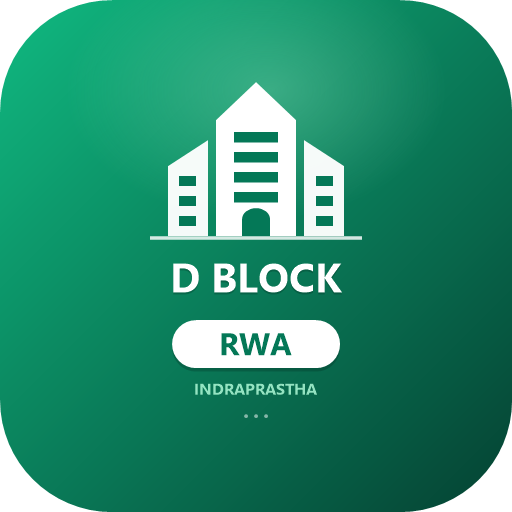
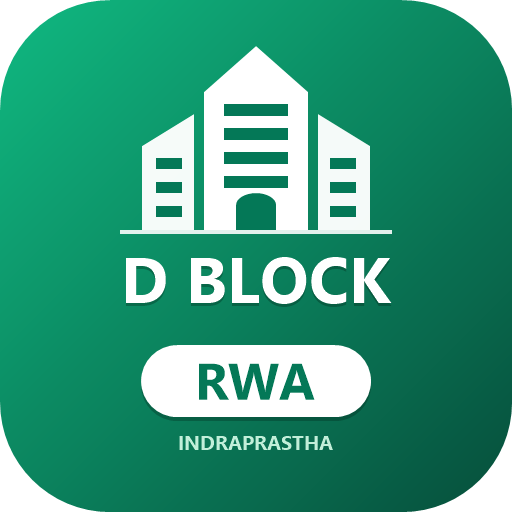
feat(branding): make emblem, D BLOCK, and RWA much larger and bolder for mobile splash screen

diff --git a/index.html b/index.html
@@ -2,17 +2,17 @@
 <html lang="en">
   <head>
     <meta charset="UTF-8" />
-    <link rel="icon" type="image/png" sizes="192x192" href="/icon-192.png?v=4" />
-    <link rel="apple-touch-icon" href="/apple-touch-icon.png?v=4" />
+    <link rel="icon" type="image/png" sizes="192x192" href="/icon-192.png?v=5" />
+    <link rel="apple-touch-icon" href="/apple-touch-icon.png?v=5" />
     <link rel="icon" type="image/svg+xml" href="/favicon.svg" />
-    <link rel="manifest" href="/manifest.json?v=4" />
+    <link rel="manifest" href="/manifest.json?v=5" />
     <meta name="viewport" content="width=device-width, initial-scale=1.0" />
     <meta name="description" content="D Block RWA Indraprastha — Society Management System. Manage residents, billing, garbage collection, complaints, events, and more." />
     <meta name="theme-color" content="#059669" />
     <title>D Block RWA Indraprastha</title>
     <link rel="preconnect" href="https://fonts.googleapis.com" />
     <link rel="preconnect" href="https://fonts.gstatic.com" crossorigin />
-    <link href="https://fonts.googleapis.com/css2?family=Inter:wght@300;400;500;600;700;800&display=swap" rel="stylesheet" />
+    <link href="https://fonts.googleapis.com/css2?family=Inter:wght@300;400;500;600;700;800;900&display=swap" rel="stylesheet" />
     <script>
       (function () {
         var h = window.location.hostname;
@@ -30,13 +30,13 @@
   <body>
     <div id="root">
       <div id="app-splash" style="position:fixed;inset:0;background:linear-gradient(145deg, #059669 0%, #047857 60%, #064e3b 100%);display:flex;flex-direction:column;align-items:center;justify-content:center;color:#fff;font-family:-apple-system,BlinkMacSystemFont,'Segoe UI',Roboto,sans-serif;z-index:99999;">
-        <img src="/icon-192.png?v=4" alt="D Block RWA" style="width:96px;height:96px;border-radius:24px;box-shadow:0 12px 28px rgba(0,0,0,0.25);margin-bottom:16px;animation:splashPulse 1.8s infinite ease-in-out;" />
-        <div style="font-size:20px;font-weight:800;letter-spacing:1.5px;text-transform:uppercase;">D Block RWA</div>
-        <div style="font-size:11px;font-weight:600;letter-spacing:2.5px;color:#a7f3d0;text-transform:uppercase;margin-top:5px;">Indraprastha</div>
+        <img src="/icon-192.png?v=5" alt="D Block RWA" style="width:144px;height:144px;border-radius:32px;box-shadow:0 16px 40px rgba(0,0,0,0.32);margin-bottom:20px;animation:splashPulse 1.8s infinite ease-in-out;" />
+        <div style="font-size:26px;font-weight:900;letter-spacing:2px;text-transform:uppercase;text-shadow:0 2px 10px rgba(0,0,0,0.25);">D BLOCK RWA</div>
+        <div style="font-size:13px;font-weight:700;letter-spacing:3.5px;color:#a7f3d0;text-transform:uppercase;margin-top:6px;">Indraprastha</div>
         <style>
           @keyframes splashPulse {
             0%, 100% { transform: scale(1); opacity: 1; }
-            50% { transform: scale(0.96); opacity: 0.88; }
+            50% { transform: scale(0.97); opacity: 0.9; }
           }
         </style>
       </div>

diff --git a/public/sw.js b/public/sw.js
@@ -1,5 +1,5 @@
 // Service Worker for Smart Manager RWA PWA & Web Push Notifications
-const CACHE_NAME = 'smart-manager-v4';
+const CACHE_NAME = 'smart-manager-v5';
 
 self.addEventListener('install', (event) => {
   self.skipWaiting();
